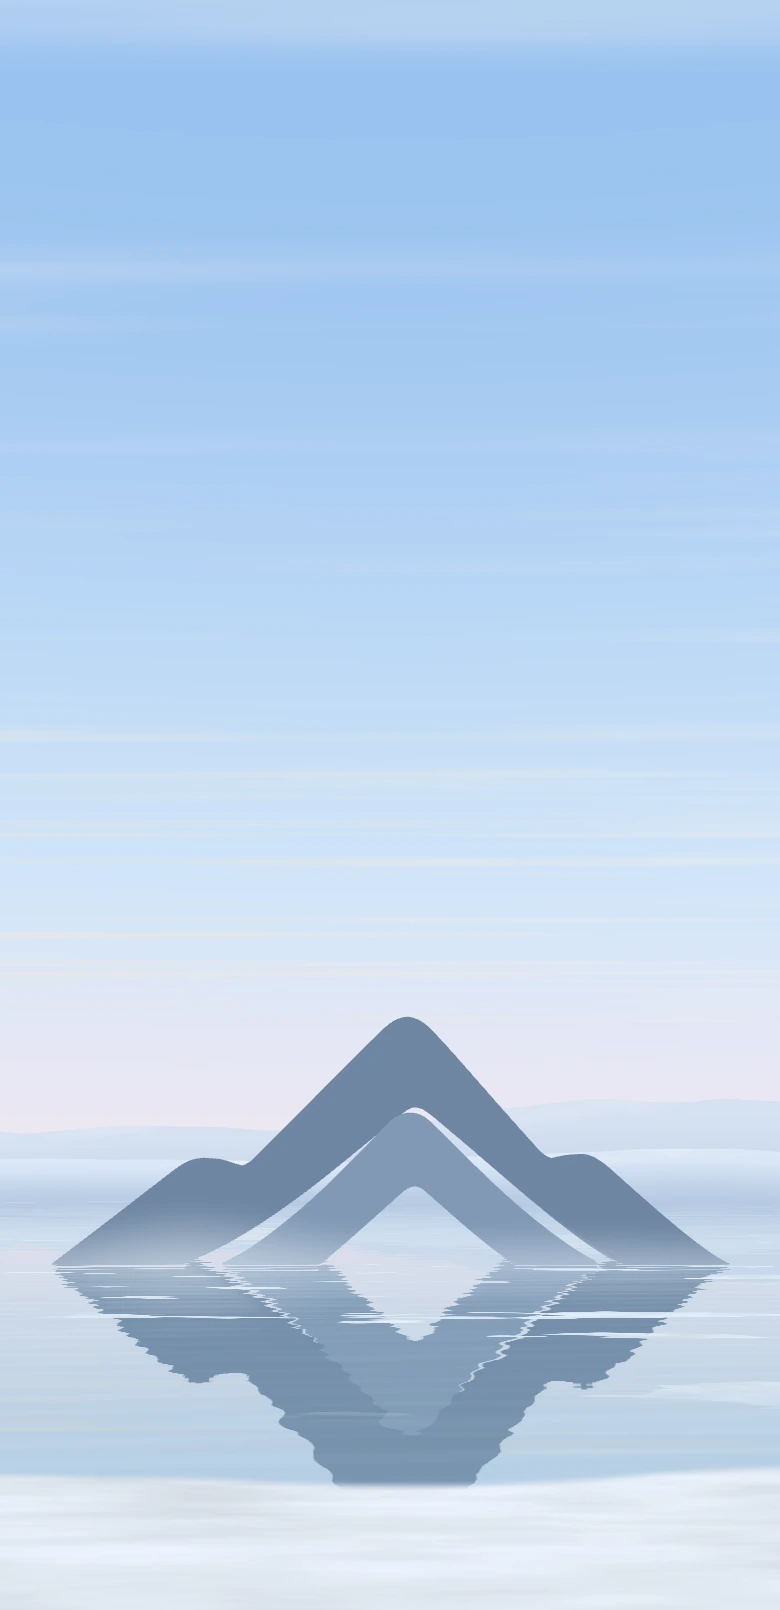
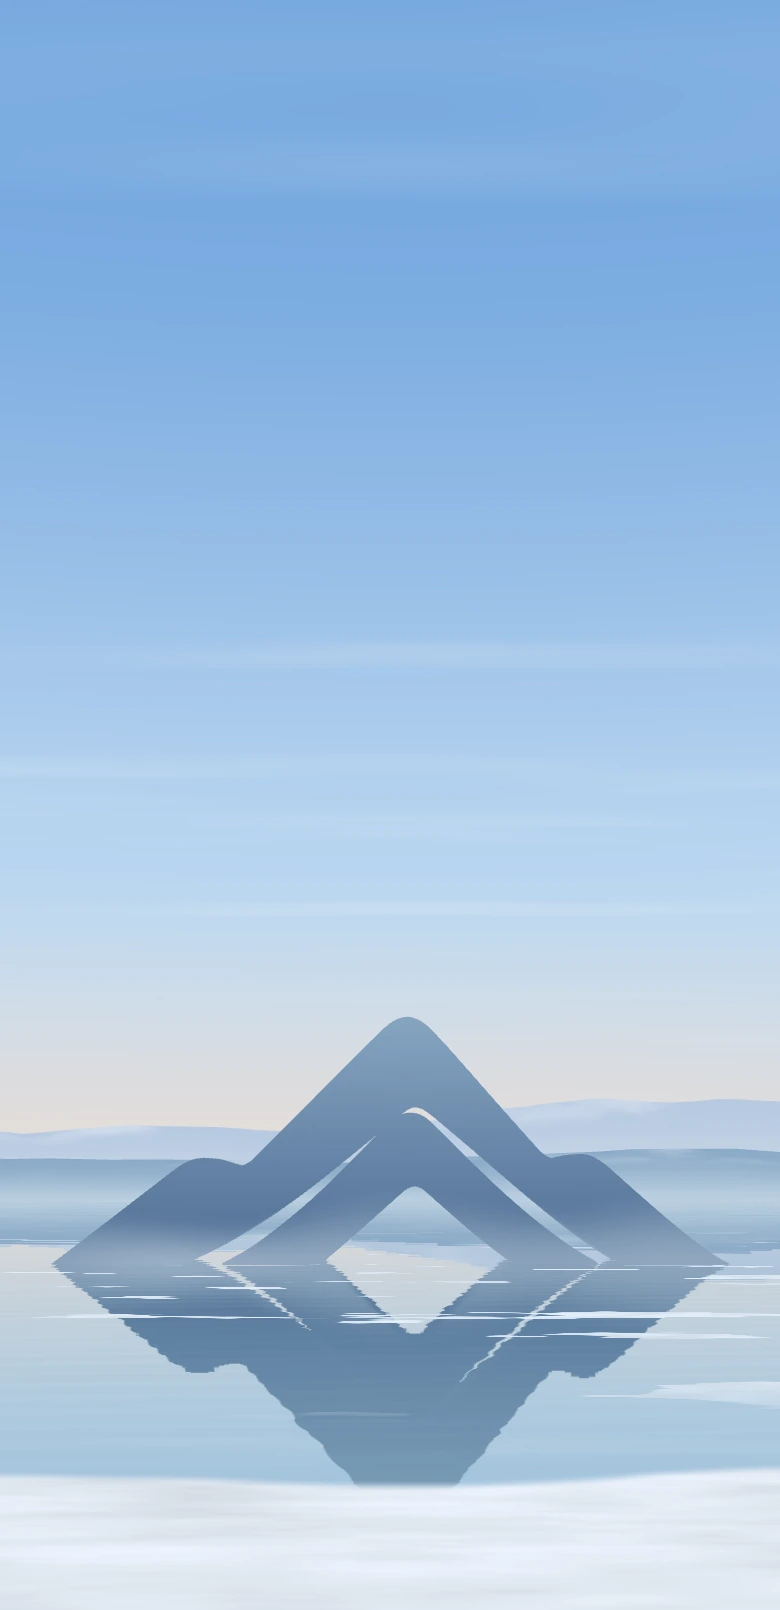
Regenera los pósteres claros y compone la orilla estacional en móvil y escritorio

diff --git a/index.html b/index.html
@@ -52,6 +52,7 @@
    const poster=document.querySelector('.landscape-poster'),hero=poster.parentElement;
    const picture=poster.querySelector('picture'),image=picture.querySelector('img'),sources=picture.querySelectorAll('source');
    let phase=document.documentElement.dataset.landscapePoster,revision=0;
+   let iceImage;
    const prepared=new Map();
    const resource=(node,key)=>phase==='start'?node.dataset[key].replace('landscape-poster-','landscape-start-'):node.dataset[key];
    const selected=key=>resource([...sources].find(source=>matchMedia(source.media).matches)||image,key);
@@ -93,6 +94,18 @@
     final(){if(phase==='final')return;phase='final';document.documentElement.dataset.landscapePoster=phase;return theme();},
     started(){try{sessionStorage.setItem('nordra-landscape-entered','true');}catch{}},
    };
+   function seasonalShore(){
+    if(!hero.winterIce || poster.dataset.theme!=='light'){
+     iceImage?.remove();iceImage=null;return;
+    }
+    const url=selected('light').replace('landscape-','landscape-ice-');
+    if(!iceImage){
+     iceImage=new Image();iceImage.alt='';iceImage.decoding='async';iceImage.className='winter-shore';
+     poster.append(iceImage);
+    }
+    if(iceImage.getAttribute('src')!==url)iceImage.src=url;
+   }
+   hero.addEventListener('nordra-winter-season',seasonalShore);
    function fit(){
     // Initial captures already include the dolly camera. Cover/crop matches the
     // four capture formats; final stills retain their existing calibrated fit.
@@ -104,18 +117,22 @@
      rect.width<=1600?{width:1440,height:820,summit:497.468912,massif:248.03544,start:[637.52,715.00],horizon:677.78}:
      rect.width>=2200?{width:2560,height:1000,summit:509.4375,massif:399.5625,start:[736.01,860.53],horizon:796.52}:
      {width:1920,height:820,summit:509.4375,massif:235.9425,start:[642.70,716.32],horizon:681.35};
+    seasonalShore();
+    // Projected solar landmarks from the four offline captures (start and settled).
+    const solar=mobile?[86.17,520.06,85.8,544.08]:rect.width<=1600?[246.42,540.16,244.8,581.43]:
+     rect.width>=2200?[438.06,617.29,435.2,679.02]:[328.54,545.33,326.4,585.0];
     const cover=Math.max(rect.width/captured.width,rect.height/captured.height);
     const top=rect.height-captured.height*cover;
     if(poster.dataset.phase==='start'){
      poster.style.setProperty('--poster-zoom',1);poster.style.setProperty('--poster-shift','0px');
-     poster.lakeBounds={horizon:top+captured.start[0]*cover,shore:top+captured.start[1]*cover};
+     poster.lakeBounds={horizon:top+captured.start[0]*cover,shore:top+captured.start[1]*cover,sunX:rect.width/2+(solar[0]-captured.width/2)*cover,sunY:top+solar[1]*cover};
      return;
     }
     let massif=rect.width*(mobile?134.157293/390:248.03544/1440);
     if(!mobile&&rect.width/rect.height>1440/820)massif=Math.min(massif,rect.height*.909-summit);
     const zoom=Math.max(1,massif/captured.massif/cover);
     const shift=summit-(captured.summit*cover+top)*zoom;
-    poster.lakeBounds={horizon:(top+captured.horizon*cover)*zoom+shift,shore:summit+captured.massif*cover*zoom};
+    poster.lakeBounds={horizon:(top+captured.horizon*cover)*zoom+shift,shore:summit+captured.massif*cover*zoom,sunX:rect.width/2+(solar[2]-captured.width/2)*cover*zoom,sunY:(top+solar[3]*cover)*zoom+shift};
     poster.style.setProperty('--poster-zoom',zoom);
     poster.style.setProperty('--poster-shift',`${shift}px`);
    }

diff --git a/src/site/styles/landscape.css b/src/site/styles/landscape.css
@@ -13,6 +13,7 @@
 .landscape-poster picture{position:absolute;inset:0;display:block}
 .landscape-poster .landscape-poster-previous{z-index:1;opacity:1;transition:opacity .6s ease;pointer-events:none}
 .landscape-poster::after{z-index:2;pointer-events:none}
+.landscape-poster .winter-shore{position:absolute;inset:0;pointer-events:none}
 .home-horizon .horizon-hero .landscape-poster img{display:block;width:100%;height:100%;object-fit:cover;object-position:50% 100%;transform-origin:50% 0;transform:translateY(var(--poster-shift,0px)) scale(var(--poster-zoom,1))}
 /* Follow the actual lines in both languages, leaving the sky between them open. */
 .dark .horizon-hero :is(.horizon-intro,.horizon-ending,.horizon-offer,.horizon-detail){
